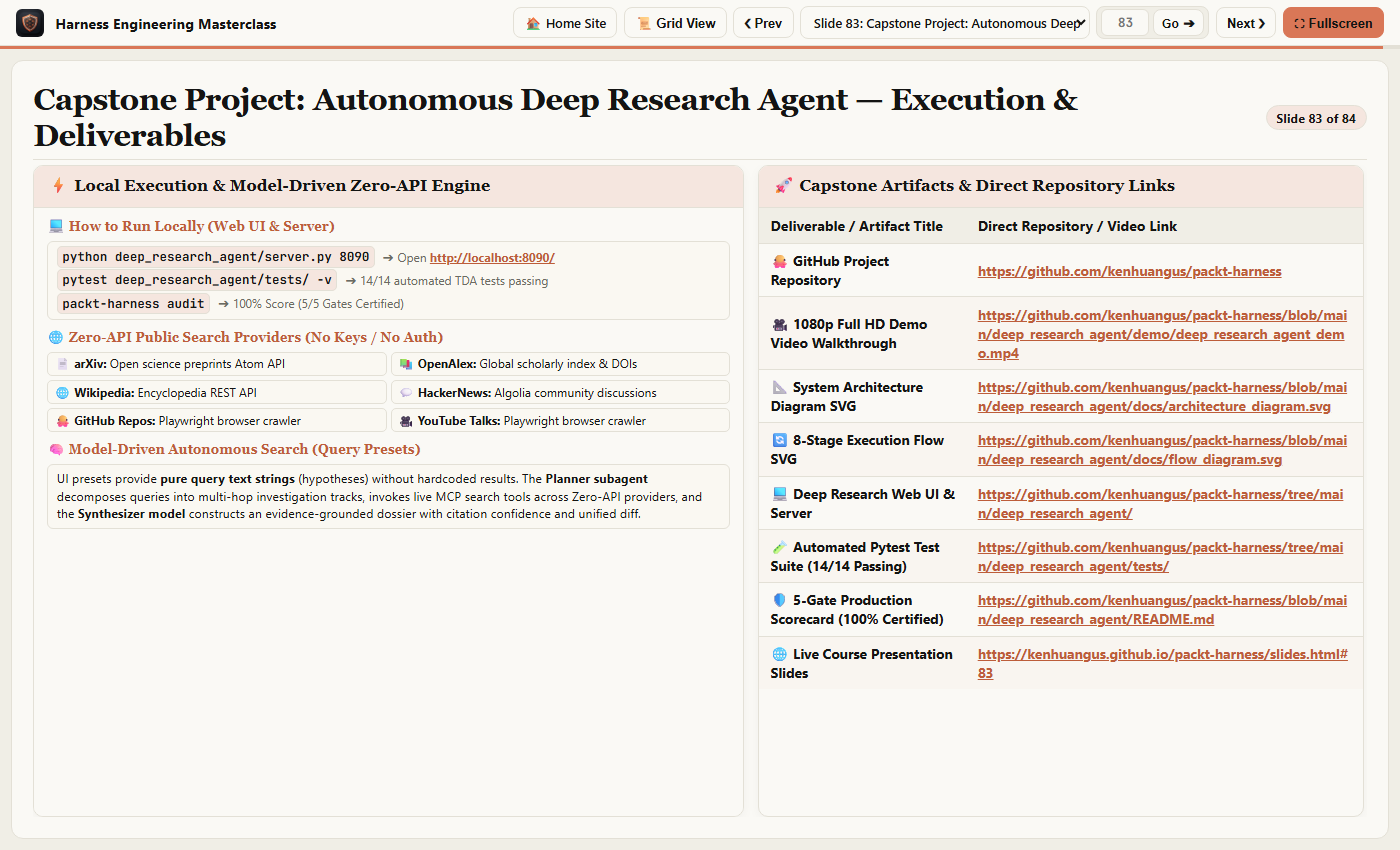
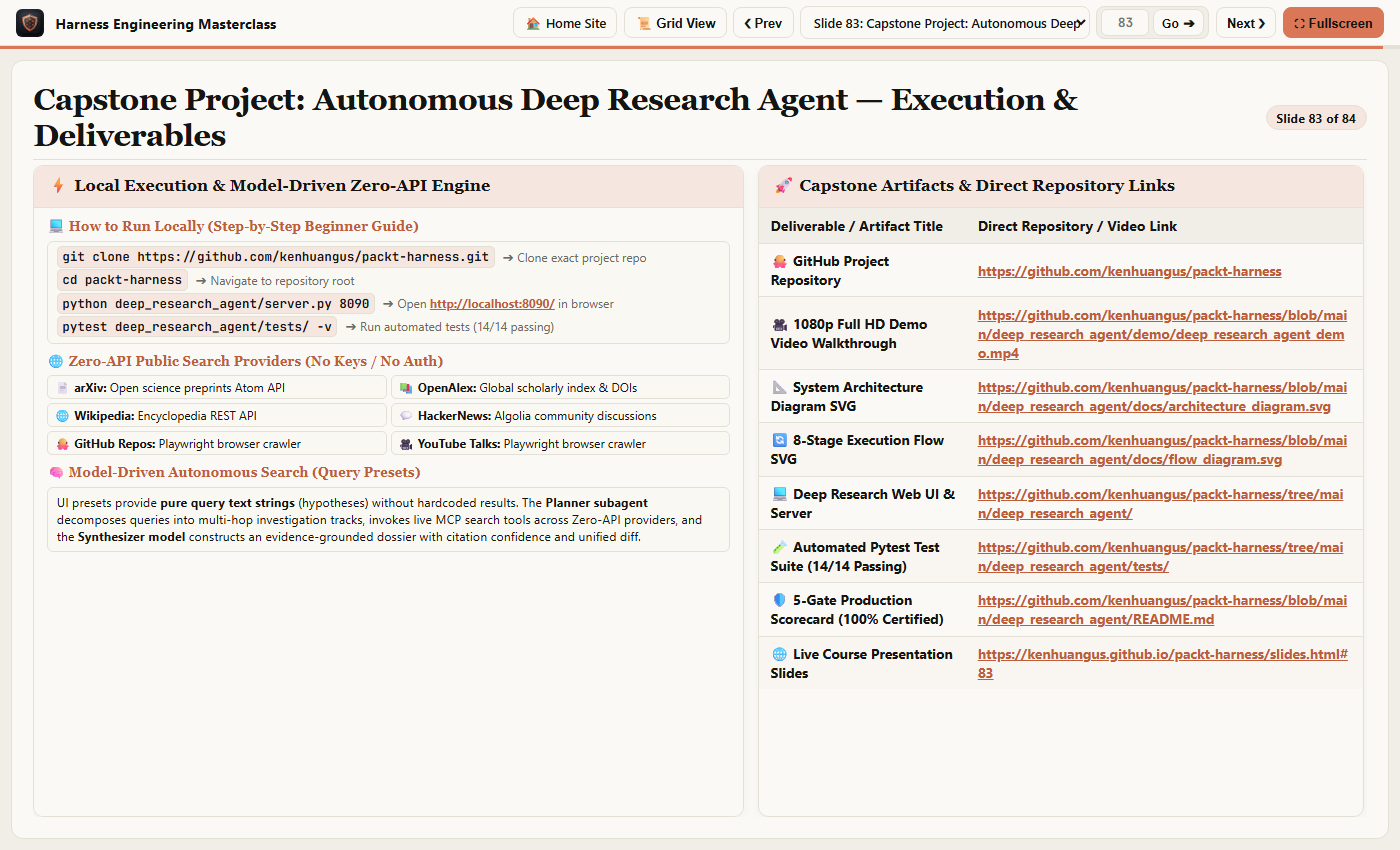
Update Slide 83 local execution instructions with beginner-friendly git clone and cd steps

Changed region(s): [[0.0307, 0.2447, 0.4914, 0.6424]]

diff --git a/docs/slides.html b/docs/slides.html
@@ -1488,11 +1488,12 @@
               </div>
               <div class="capstone-info-body">
                 <div class="capstone-section">
-                  <div class="capstone-section-title">💻 How to Run Locally (Web UI &amp; Server)</div>
+                  <div class="capstone-section-title">💻 How to Run Locally (Step-by-Step Beginner Guide)</div>
                   <div class="capstone-cmd-box">
-                    <div><code>python deep_research_agent/server.py 8090</code> <span class="cmd-note">➔ Open <a href="http://localhost:8090/" target="_blank" rel="noopener noreferrer">http://localhost:8090/</a></span></div>
-                    <div><code>pytest deep_research_agent/tests/ -v</code> <span class="cmd-note">➔ 14/14 automated TDA tests passing</span></div>
-                    <div><code>packt-harness audit</code> <span class="cmd-note">➔ 100% Score (5/5 Gates Certified)</span></div>
+                    <div><code>git clone https://github.com/kenhuangus/packt-harness.git</code> <span class="cmd-note">➔ Clone exact project repo</span></div>
+                    <div><code>cd packt-harness</code> <span class="cmd-note">➔ Navigate to repository root</span></div>
+                    <div><code>python deep_research_agent/server.py 8090</code> <span class="cmd-note">➔ Open <a href="http://localhost:8090/" target="_blank" rel="noopener noreferrer">http://localhost:8090/</a> in browser</span></div>
+                    <div><code>pytest deep_research_agent/tests/ -v</code> <span class="cmd-note">➔ Run automated tests (14/14 passing)</span></div>
                   </div>
                 </div>
 

diff --git a/slides.html b/slides.html
@@ -1488,11 +1488,12 @@
               </div>
               <div class="capstone-info-body">
                 <div class="capstone-section">
-                  <div class="capstone-section-title">💻 How to Run Locally (Web UI &amp; Server)</div>
+                  <div class="capstone-section-title">💻 How to Run Locally (Step-by-Step Beginner Guide)</div>
                   <div class="capstone-cmd-box">
-                    <div><code>python deep_research_agent/server.py 8090</code> <span class="cmd-note">➔ Open <a href="http://localhost:8090/" target="_blank" rel="noopener noreferrer">http://localhost:8090/</a></span></div>
-                    <div><code>pytest deep_research_agent/tests/ -v</code> <span class="cmd-note">➔ 14/14 automated TDA tests passing</span></div>
-                    <div><code>packt-harness audit</code> <span class="cmd-note">➔ 100% Score (5/5 Gates Certified)</span></div>
+                    <div><code>git clone https://github.com/kenhuangus/packt-harness.git</code> <span class="cmd-note">➔ Clone exact project repo</span></div>
+                    <div><code>cd packt-harness</code> <span class="cmd-note">➔ Navigate to repository root</span></div>
+                    <div><code>python deep_research_agent/server.py 8090</code> <span class="cmd-note">➔ Open <a href="http://localhost:8090/" target="_blank" rel="noopener noreferrer">http://localhost:8090/</a> in browser</span></div>
+                    <div><code>pytest deep_research_agent/tests/ -v</code> <span class="cmd-note">➔ Run automated tests (14/14 passing)</span></div>
                   </div>
                 </div>
 

diff --git a/build_all_63_svg_slides.py b/build_all_63_svg_slides.py
@@ -1886,11 +1886,12 @@ html_template = '''<!DOCTYPE html>
               </div>
               <div class="capstone-info-body">
                 <div class="capstone-section">
-                  <div class="capstone-section-title">💻 How to Run Locally (Web UI &amp; Server)</div>
+                  <div class="capstone-section-title">💻 How to Run Locally (Step-by-Step Beginner Guide)</div>
                   <div class="capstone-cmd-box">
-                    <div><code>python deep_research_agent/server.py 8090</code> <span class="cmd-note">➔ Open <a href="http://localhost:8090/" target="_blank" rel="noopener noreferrer">http://localhost:8090/</a></span></div>
-                    <div><code>pytest deep_research_agent/tests/ -v</code> <span class="cmd-note">➔ 14/14 automated TDA tests passing</span></div>
-                    <div><code>packt-harness audit</code> <span class="cmd-note">➔ 100% Score (5/5 Gates Certified)</span></div>
+                    <div><code>git clone https://github.com/kenhuangus/packt-harness.git</code> <span class="cmd-note">➔ Clone exact project repo</span></div>
+                    <div><code>cd packt-harness</code> <span class="cmd-note">➔ Navigate to repository root</span></div>
+                    <div><code>python deep_research_agent/server.py 8090</code> <span class="cmd-note">➔ Open <a href="http://localhost:8090/" target="_blank" rel="noopener noreferrer">http://localhost:8090/</a> in browser</span></div>
+                    <div><code>pytest deep_research_agent/tests/ -v</code> <span class="cmd-note">➔ Run automated tests (14/14 passing)</span></div>
                   </div>
                 </div>
 
